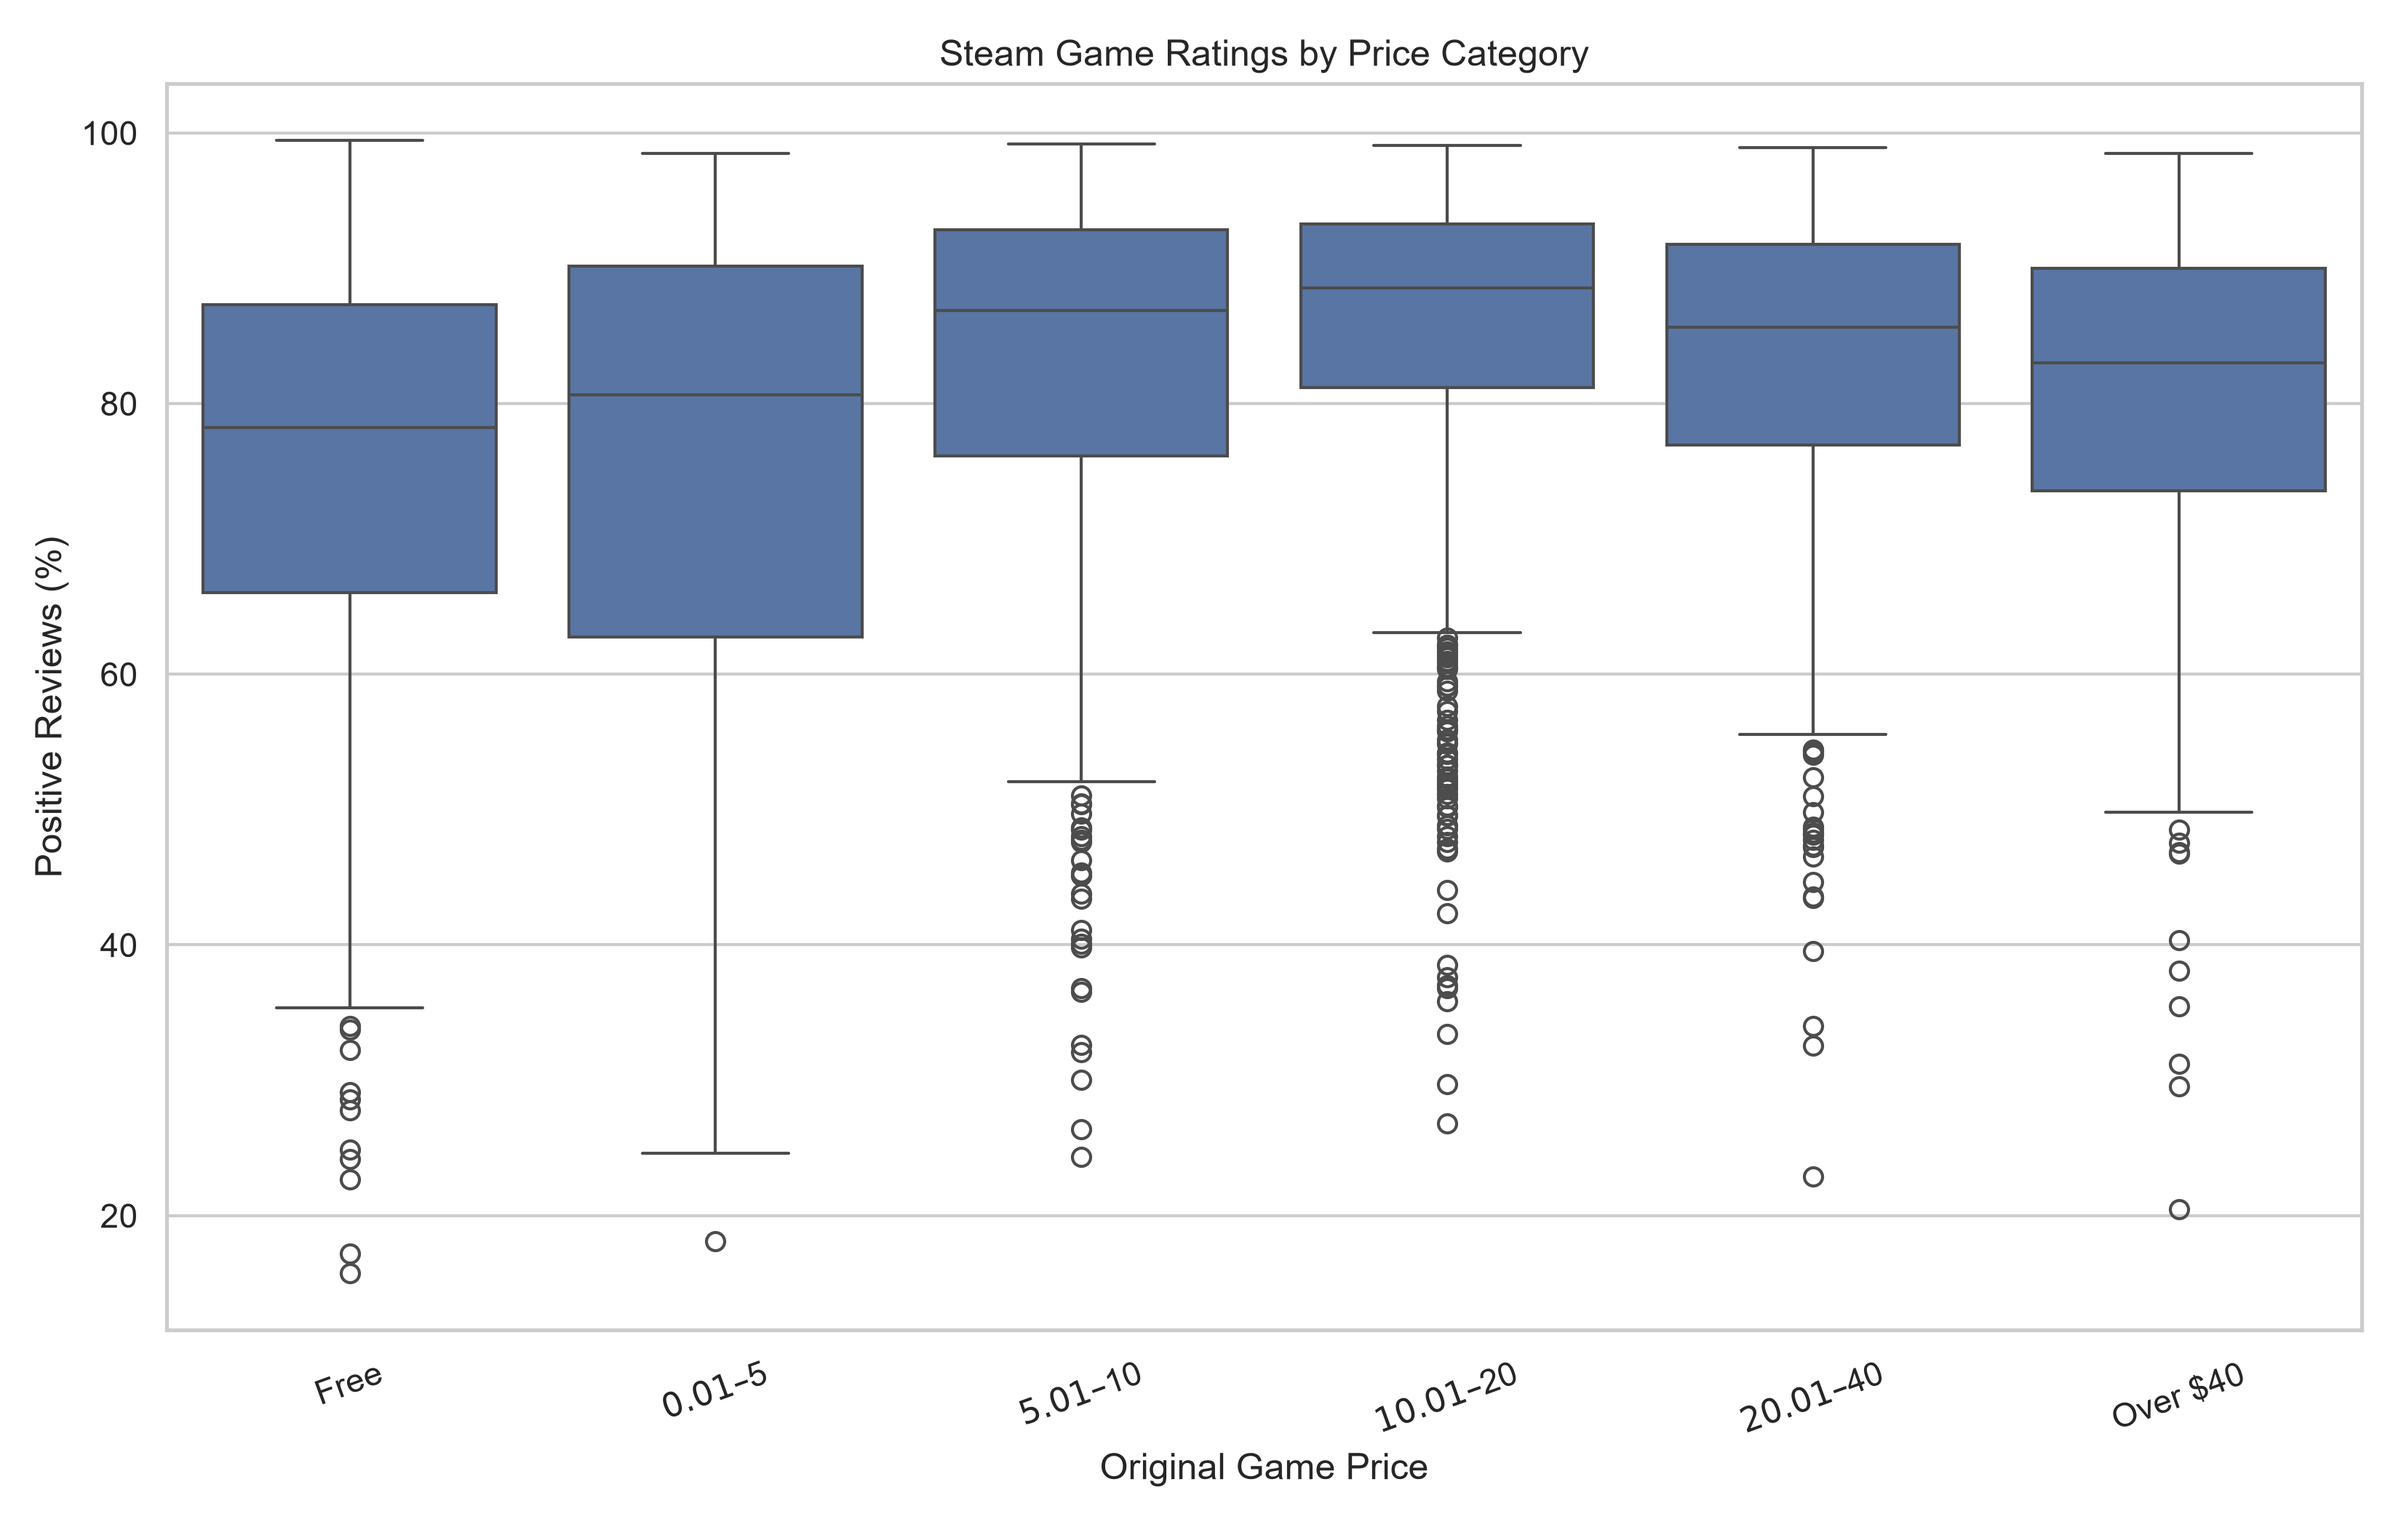
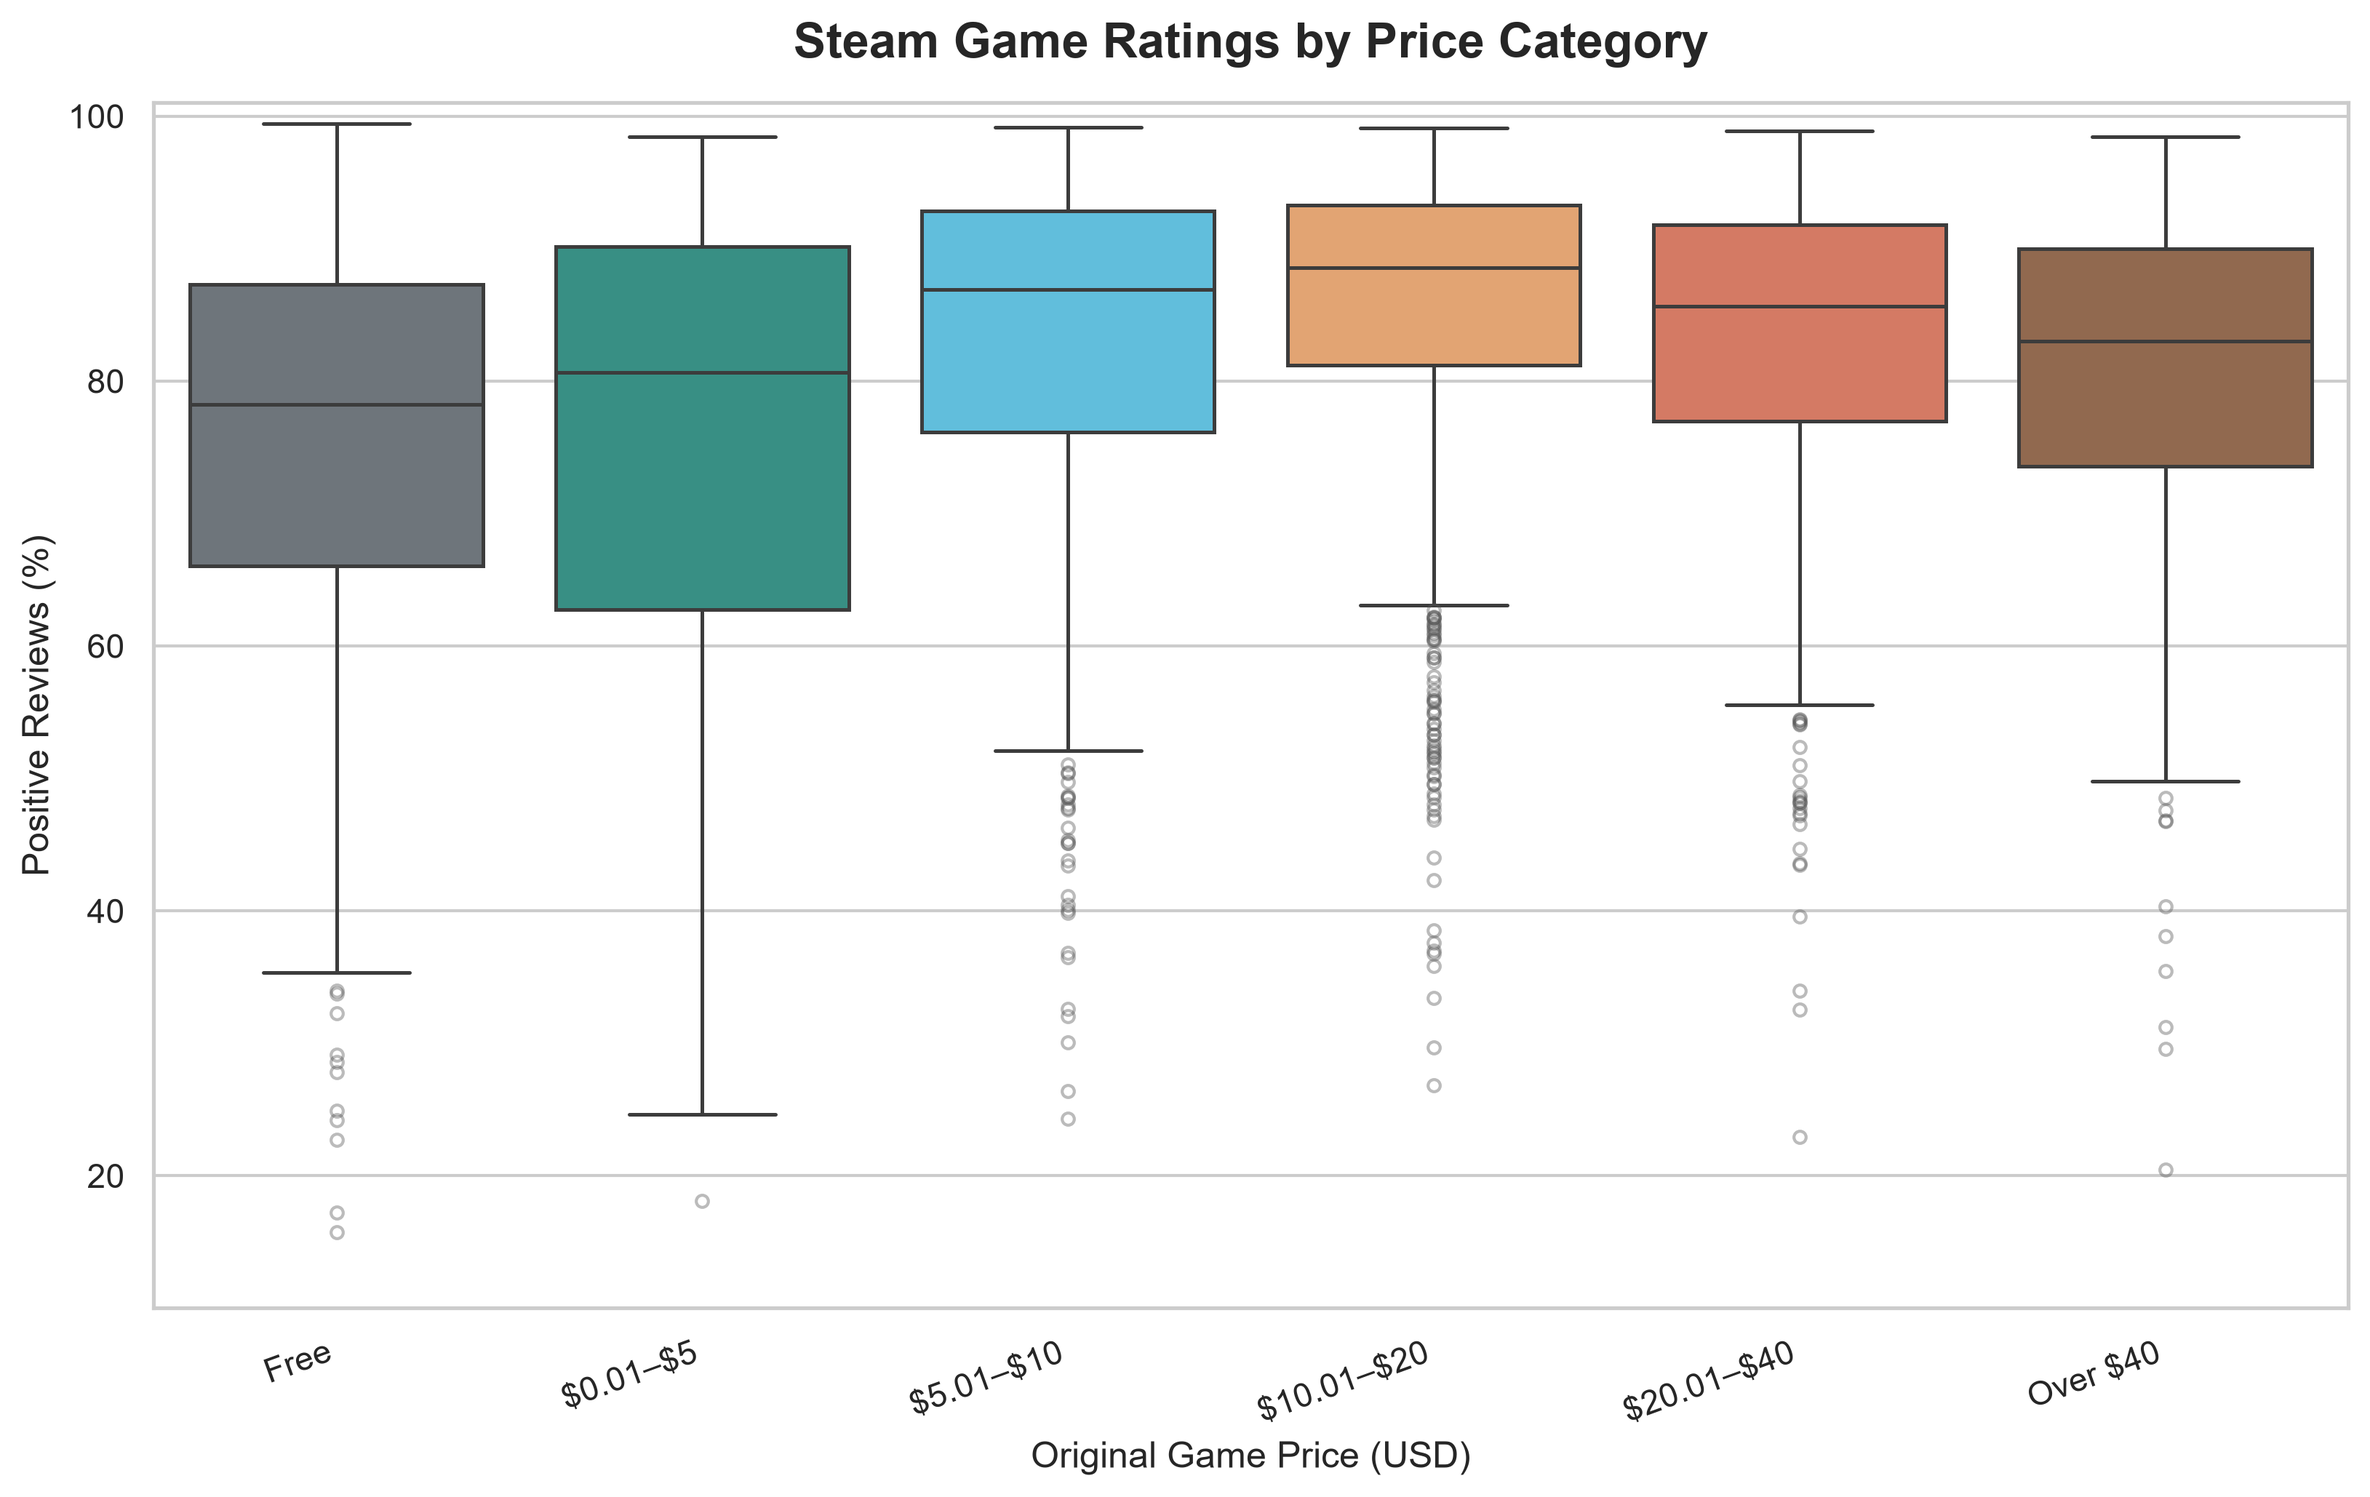
Fixed dollar signs in plots and made more dynamic colors

diff --git a/steam-game-analysis/src/visualizations.py b/steam-game-analysis/src/visualizations.py
@@ -3,6 +3,8 @@
 import matplotlib
 matplotlib.use("Agg")
 
+from matplotlib.ticker import MultipleLocator, FormatStrFormatter
+
 from pathlib import Path
 import matplotlib.pyplot as plt
 import seaborn as sns
@@ -88,7 +90,9 @@ def plot_tag_counts(tags_df, figures_dir: Path):
     sns.barplot(
         x=top_tags.values,
         y=top_tags.index,
-        color="steelblue"
+        color="#4361EE",
+        edgecolor="#293B86",
+        linewidth=0.6
     )
 
     plt.title("15 Most Common Steam Community Tags")
@@ -102,41 +106,88 @@ def plot_tag_counts(tags_df, figures_dir: Path):
     plt.close()
 
 
+
 def plot_price_categories(df, price_labels, figures_dir: Path):
-    """Boxplot of positive ratings for original-price categories."""
+    """Boxplot with a distinct color for each price category."""
     FIGURES = Path(figures_dir)
+
+    price_palette = {
+        "Free": "#6C757D",
+        "$0.01–$5": "#2A9D8F",
+        "$5.01–$10": "#4CC9F0",
+        "$10.01–$20": "#F4A261",
+        "$20.01–$40": "#E76F51",
+        "Over $40": "#9C6644"
+    }
+
     plt.figure(figsize=(11, 7))
 
     sns.boxplot(
         data=df,
         x="price_category",
         y="positive_pct",
-        order=price_labels
+        hue="price_category",
+        order=price_labels,
+        hue_order=price_labels,
+        palette=price_palette,
+        dodge=False,
+        legend=False,
+        linewidth=1.2,
+        flierprops={
+            "marker": "o",
+            "markersize": 4,
+            "alpha": 0.4,
+            "markeredgecolor": "#555555"
+        }
     )
 
-    plt.title("Steam Game Ratings by Price Category")
-    plt.xlabel("Original Game Price")
+    plt.title(
+        "Steam Game Ratings by Price Category",
+        fontsize=16,
+        fontweight="bold",
+        pad=15
+    )
+    plt.xlabel("Original Game Price (USD)")
     plt.ylabel("Positive Reviews (%)")
 
-    plt.xticks(rotation=20)
+    # Display dollar signs literally
+    display_labels = [
+        "Free",
+        r"\$0.01–\$5",
+        r"\$5.01–\$10",
+        r"\$10.01–\$20",
+        r"\$20.01–\$40",
+        "Over \$40"
+    ]
+
+    ax = plt.gca()
+    ax.set_xticklabels(display_labels, rotation=20, ha="right")
+    plt.ylim(10, 101)
     plt.tight_layout()
 
     plt.savefig(
         FIGURES / "ratings_by_price_category.png",
-        dpi=300
+        dpi=300,
+        bbox_inches="tight"
     )
 
     plt.close()
 
 
-def plot_genre_price_heatmap(genre_price_summary, price_labels, figures_dir: Path):
-    """Show medians only where genre-price groups have at least 30 games."""
+
+
+def plot_genre_price_heatmap(
+    genre_price_summary,
+    price_labels,
+    figures_dir: Path
+):
+    """Heatmap with a 30-game minimum and blue-neutral-red colors."""
     FIGURES = Path(figures_dir)
-    # Require at least 30 games per genre-price combination
     MIN_GAMES = 30
 
     filtered_summary = genre_price_summary.copy()
 
+    # Hide groups containing fewer than 30 games
     filtered_summary.loc[
         filtered_summary["games"] < MIN_GAMES,
         "median_rating"
@@ -148,47 +199,78 @@ def plot_genre_price_heatmap(genre_price_summary, price_labels, figures_dir: Pat
         values="median_rating"
     )
 
-    # Preserve original price category ordering
+    # Preserve the original category order
     heatmap_data = heatmap_data.reindex(
         columns=price_labels
     )
 
-    # Remove genres with no qualifying cells
+    # Remove genres with no qualifying groups
     heatmap_data = heatmap_data.dropna(how="all")
 
-    # Display missing cells as blank
     plt.figure(figsize=(12, 7))
 
-    sns.heatmap(
+    ax = sns.heatmap(
         heatmap_data,
         annot=True,
         fmt=".1f",
-        cmap="YlGnBu",
-        vmin=50,
-        vmax=100,
+        cmap="RdBu_r",
+        center=82.5,
+        vmin=70,
+        vmax=92,
         mask=heatmap_data.isna(),
+        linewidths=1,
+        linecolor="white",
+        annot_kws={
+            "fontsize": 10,
+            "fontweight": "bold",
+            "color": "black"
+        },
         cbar_kws={
             "label": "Median Positive Reviews (%)"
         }
     )
 
+    # Make blank cells visibly intentional
+    ax.set_facecolor("#F2F2F2")
+
+    ax.grid(False)
+
     plt.title(
         "Steam Ratings by Genre and Price Category\n"
-        "(Minimum 30 Games per Group)"
+        "(Blank Cells Indicate Fewer Than 30 Games)",
+        fontsize=15,
+        fontweight="bold",
+        pad=15
     )
 
     plt.xlabel("Original Game Price")
     plt.ylabel("Genre")
 
+    # Force labels to display clearly
+    
+   
+    # Display dollar signs literally instead of as math formatting
+    display_labels = [
+        "Free",
+        r"\$0.01–\$5",
+        r"\$5.01–\$10",
+        r"\$10.01–\$20",
+        r"\$20.01–\$40",
+        "Over $40"
+    ]
+
+    ax.set_xticklabels(display_labels, rotation=0)
+    ax.tick_params(axis="y", labelrotation=0)
+
     plt.tight_layout()
 
     plt.savefig(
         FIGURES / "genre_price_heatmap.png",
-        dpi=300
+        dpi=300,
+        bbox_inches="tight"
     )
 
     plt.close()
-
 
 def plot_release_year(year_plot, figures_dir: Path):
     """Plot rating by release year for years with at least 20 sampled games."""
@@ -206,6 +288,13 @@ def plot_release_year(year_plot, figures_dir: Path):
         plt.title("Steam Game Ratings by Release Year")
         plt.xlabel("Release Year")
         plt.ylabel("Median Positive Reviews (%)")
+
+        
+        # Display whole-number years every 2 years
+        ax = plt.gca()
+        ax.xaxis.set_major_locator(MultipleLocator(2))
+        ax.xaxis.set_major_formatter(FormatStrFormatter("%d"))
+
 
         plt.tight_layout()
         plt.savefig(
